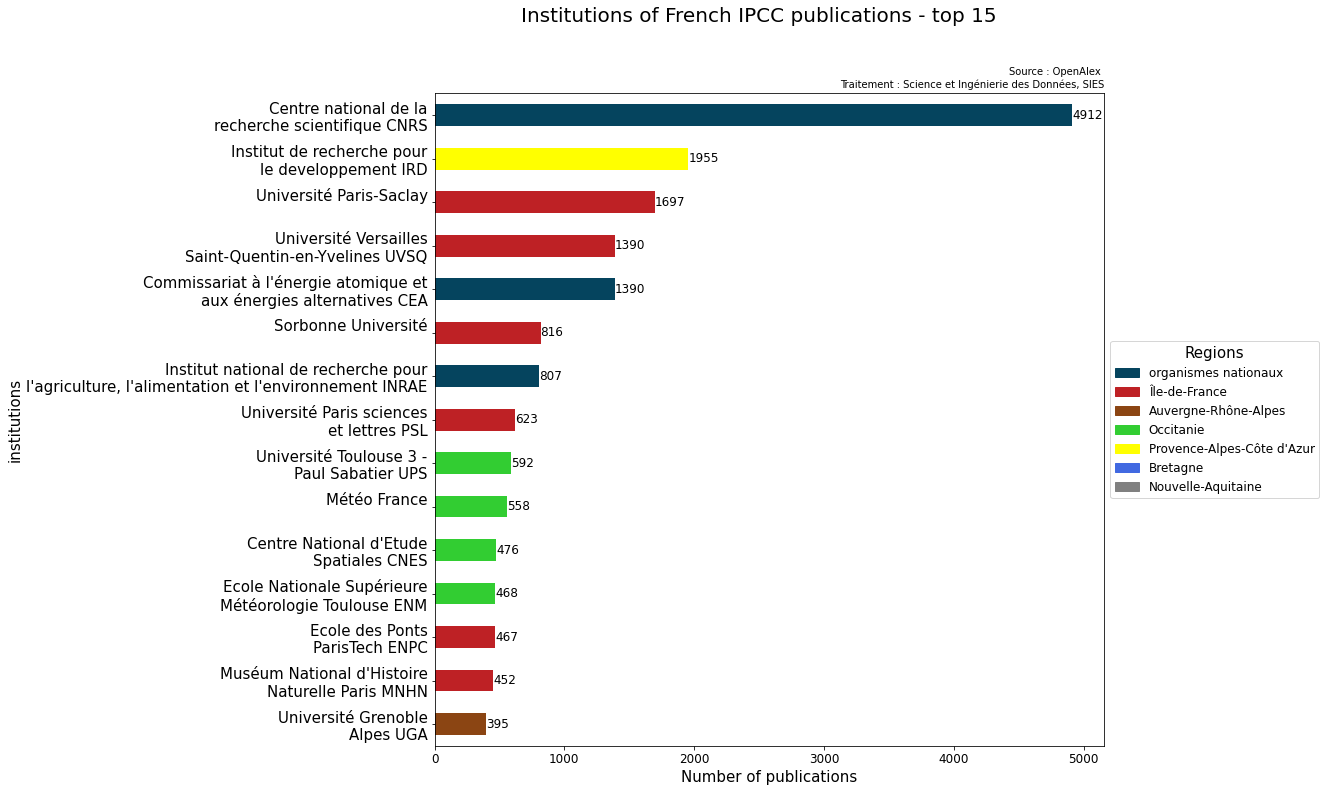
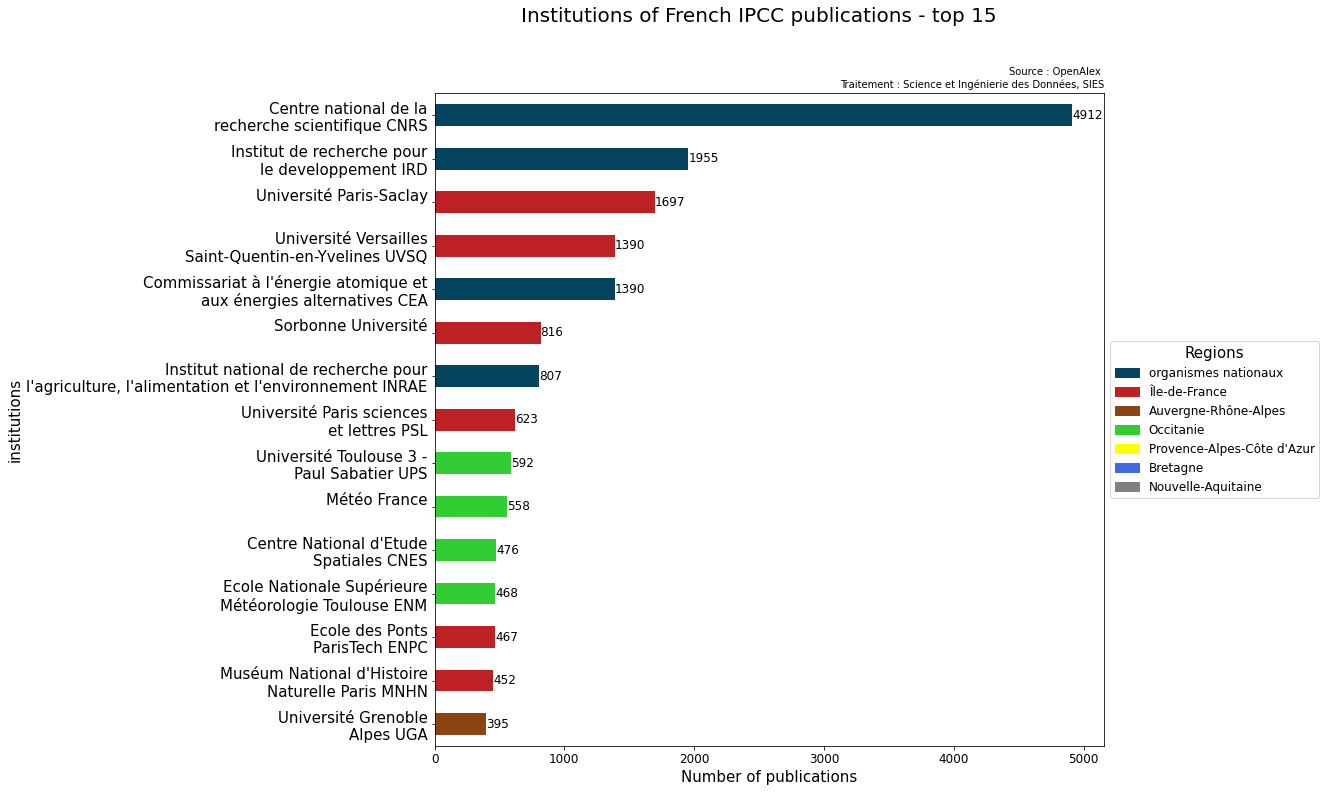
IRD en organisme national

Changed region(s): [[0.3092, 0.1818, 0.5256, 0.2121]]

diff --git a/docs/20240311_teds.html b/docs/20240311_teds.html
@@ -48,7 +48,7 @@
           </div>
           <div style="float: left; font-size: 0.4em; margin-top: 2rem; text-align: left;">
             <p style="margin: 0;">
-              13 mars 2023
+              3 mai 2023
             </p>
           </div>
           <div style="float: right; font-size: 0.4em; margin-top: 2rem; text-align: right;">
@@ -88,20 +88,20 @@
             <h3 style="font-size: 1.2em;">Les éléments clés à retenir: </h3>
             <div style="font-size: 0.85em;">
               <div style="float: left; width: 100%;">
-                <ul style="font-size: 0.75em; line-height: 170%;">
+                <ul style="font-size: 0.6em; line-height: 170%;">
                   <br>
                   <li>
-                    🧘  La France occupe la septième place dans les classements généraux par pays du <b>GIEC</b> et l'<b>IPBES</b> 
+                    🧘  La France occupe la septième place dans les classements généraux par pays du <b>GIEC</b> et l'<b>IPBES</b>, cela représente respectivement pour le GIEC et l'IPBES, 3925 publications sur 53258 et 129 sur 6106
                     <br />
                     <br />
                   </li>
                   <li>
-                    ✨ La France brille dans les sciences physiques, les publications françaises sont les 4ème plus utilisées pour le groupe concernant les sciences physiques (WG1) du <b>GIEC</b> 
+                    ✨ La France brille dans les sciences physiques, les publications françaises sont les 4ème plus utilisées pour le groupe concernant les sciences physiques (WG1) du <b>GIEC</b> : Près de 13% des publications du WG1 ont une contribution française 
                     <br />
                     <br />
                   </li>
                   <li>
-                    ⏳ Les rapports s'appuient sur des publications récentes par rapport à leur date de parutions
+                    ⏳ Les rapports s'appuient sur des publications récentes par rapport à leur date de parutions: elles datent en majorité des 5 dernières années (60% des publications du GIEC est compris entre 2017 et 2022 et 62% des publications de L'IPBES est compris entre 2014 et 2019)
                     <br />
                     <br />
                   </li>
@@ -177,7 +177,8 @@
                     👁 Visualiser et partager les résultats : datasupR (site qui fait des requêtes permet d'avoir accès aux visualisations)
                   </li>
                   <li>
-                    🔓 l'intégralité du code et des données utilisées sont ouvertes
+                    🔓 l'intégralité du code et des données utilisées sont ouvertes :
+                    <a href="url">https://github.com/dataesr/teds</a>
                   </li>
                 </ul>
               </div>
@@ -378,7 +379,7 @@
           </section>
 
           <section>
-            <h3 style="font-size: 0.5em;"> Le laboratoire des sciences du climat en tête dans les publications de l'IPBES mais suivi de plus près par le centre d'écologie fonctionnelle</h3>
+            <h3 style="font-size: 0.5em;"> Le laboratoire des sciences du climat toujours en tête dans les publications de l'IPBES</h3>
             <div style="height: 650px;">
               <img src="images/teds_ipbes_labs.png" />
             </div>
@@ -412,7 +413,11 @@
           <section>
             <h3 style="font-size: 0.85em;">En France, qui contribue au sujet ? (4/4) </h3>
             <div style="font-size: 0.80em;">
-              Qui sont ces auteurs et quel moyen pour en apprendre rapidement plus sur eux ? (ex : recherche de Philippe Ciais sur scanR)
+              Qui sont ces auteurs et quel moyen pour en apprendre rapidement plus sur eux ? 
+            </div>
+            <div style="font-size: 0.60em;">
+              Par exemple, recherche de Philippe Ciais sur scanR :  
+              <a href="url">https://scanr.staging.dataesr.ovh/</a>
             </div>
           </section>
 
@@ -456,6 +461,38 @@
             <div style="height: 650px;">
               <img src="images/teds_graph_pc.png" />
             </div>
+          </section>
+        </section>
+
+        <section>
+          <section>
+            <h3 style="font-size: 1.2em;">Les éléments clés à retenir: </h3>
+            <div style="font-size: 0.85em;">
+              <div style="float: left; width: 100%;">
+                <ul style="font-size: 0.6em; line-height: 170%;">
+                  <br>
+                  <li>
+                    🧘  La France occupe la septième place dans les classements généraux par pays du <b>GIEC</b> et l'<b>IPBES</b>, cela représente respectivement pour le GIEC et l'IPBES, 3925 publications sur 53258 et 129 sur 6106
+                    <br />
+                    <br />
+                  </li>
+                  <li>
+                    ✨ La France brille dans les sciences physiques, les publications françaises sont les 4ème plus utilisées pour le groupe concernant les sciences physiques (WG1) du <b>GIEC</b> : Près de 13% des publications du WG1 ont une contribution française 
+                    <br />
+                    <br />
+                  </li>
+                  <li>
+                    ⏳ Les rapports s'appuient sur des publications récentes par rapport à leur date de parutions: elles dates en majorité des 5 dernières années (60% des publications du GIEC est compris entre 2017 et 2022 et 62% des publications de L'IPBES est compris entre 2014 et 2019)
+                    <br />
+                    <br />
+                  </li>
+                  <li>
+                    👩🔬 En France, les laboratoires travaillant sur les rapports sont globalement localisés en île-de-France et en Occitanie
+                    <br />
+                    <br />
+                  </li>
+                </ul>
+              </div>
           </section>
         </section>
             
